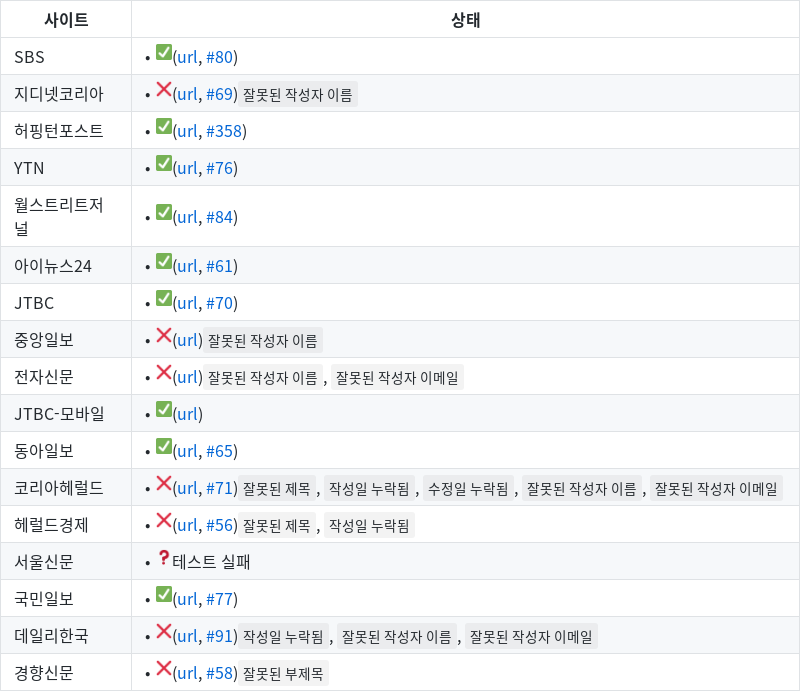
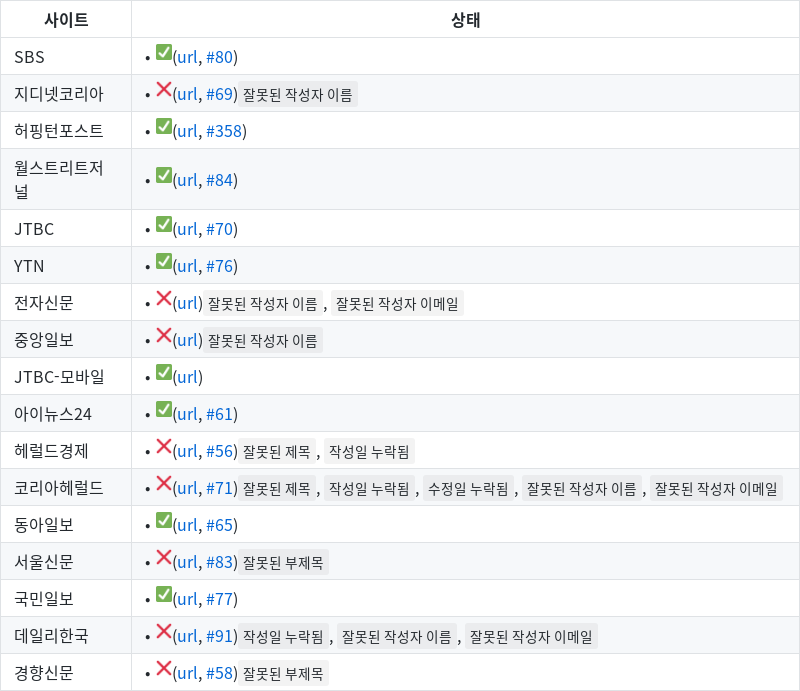
Wed Mar 11 00:15:25 UTC 2020

diff --git a/health-check.md b/health-check.md
@@ -3,17 +3,17 @@
 | SBS | • ✅([url](https://news.sbs.co.kr/news/endPage.do?news_id=N1002697236), [#80](https://github.com/disjukr/just-news/issues/#80)) |
 | 지디넷코리아 | • ❌([url](http://www.zdnet.co.kr/view/?no=20141104074223), [#69](https://github.com/disjukr/just-news/issues/#69))`잘못된 작성자 이름` |
 | 허핑턴포스트 | • ✅([url](https://www.huffingtonpost.kr/entry/story_kr_5d36a558e4b004b6adb5029c?9e4), [#358](https://github.com/disjukr/just-news/issues/#358)) |
-| YTN | • ✅([url](https://www.ytn.co.kr/_ln/0103_201411190800481989), [#76](https://github.com/disjukr/just-news/issues/#76)) |
 | 월스트리트저널 | • ✅([url](https://realtime.wsj.com/korea/2014/10/13/%EB%B0%95%EC%9B%90%EC%88%9C-%EC%84%9C%EC%9A%B8%EC%8B%9C%EC%9E%A5-%EB%AF%B8%EA%B5%AD-%EC%96%B8%EB%A1%A0%EC%97%90-%EB%8F%99%EC%84%B1%EA%B2%B0%ED%98%BC-%EC%A7%80%EC%A7%80-%EB%B0%9C%EC%96%B8/), [#84](https://github.com/disjukr/just-news/issues/#84)) |
-| 아이뉴스24 | • ✅([url](http://www.inews24.com/view/860573), [#61](https://github.com/disjukr/just-news/issues/#61)) |
 | JTBC | • ✅([url](http://news.jtbc.joins.com/article/article.aspx?news_id=NB10639468), [#70](https://github.com/disjukr/just-news/issues/#70)) |
-| 중앙일보 | • ❌([url](https://news.joins.com/article/23621286))`잘못된 작성자 이름` |
+| YTN | • ✅([url](https://www.ytn.co.kr/_ln/0103_201411190800481989), [#76](https://github.com/disjukr/just-news/issues/#76)) |
 | 전자신문 | • ❌([url](http://www.etnews.com/20191031000370?mc=ns_003_00006))`잘못된 작성자 이름`, `잘못된 작성자 이메일` |
+| 중앙일보 | • ❌([url](https://news.joins.com/article/23621286))`잘못된 작성자 이름` |
 | JTBC-모바일 | • ✅([url](http://mnews.jtbc.joins.com/News/Article.aspx?news_id=NB11866214)) |
-| 동아일보 | • ✅([url](http://news.donga.com/3/03/20141107/67723014/1), [#65](https://github.com/disjukr/just-news/issues/#65)) |
-| 코리아헤럴드 | • ❌([url](http://khnews.kheraldm.com/view.php?ud=20141111001137&md=20141111180830_BK&kr=1), [#71](https://github.com/disjukr/just-news/issues/#71))`잘못된 제목`, `작성일 누락됨`, `수정일 누락됨`, `잘못된 작성자 이름`, `잘못된 작성자 이메일` |
+| 아이뉴스24 | • ✅([url](http://www.inews24.com/view/860573), [#61](https://github.com/disjukr/just-news/issues/#61)) |
 | 헤럴드경제 | • ❌([url](http://news.heraldcorp.com/view.php?ud=20141023000202&md=20141023091209_BK), [#56](https://github.com/disjukr/just-news/issues/#56))`잘못된 제목`, `작성일 누락됨` |
-| 서울신문 | • ❓테스트 실패 |
+| 코리아헤럴드 | • ❌([url](http://khnews.kheraldm.com/view.php?ud=20141111001137&md=20141111180830_BK&kr=1), [#71](https://github.com/disjukr/just-news/issues/#71))`잘못된 제목`, `작성일 누락됨`, `수정일 누락됨`, `잘못된 작성자 이름`, `잘못된 작성자 이메일` |
+| 동아일보 | • ✅([url](http://news.donga.com/3/03/20141107/67723014/1), [#65](https://github.com/disjukr/just-news/issues/#65)) |
+| 서울신문 | • ❌([url](http://seoul.co.kr/news/newsView.php?id=20141204500025), [#83](https://github.com/disjukr/just-news/issues/#83))`잘못된 부제목` |
 | 국민일보 | • ✅([url](http://news.kmib.co.kr/article/view.asp?arcid=0008864720&code=61121111), [#77](https://github.com/disjukr/just-news/issues/#77)) |
 | 데일리한국 | • ❌([url](http://daily.hankooki.com/lpage/politics/201412/dh20141219103740137430.htm), [#91](https://github.com/disjukr/just-news/issues/#91))`작성일 누락됨`, `잘못된 작성자 이름`, `잘못된 작성자 이메일` |
 | 경향신문 | • ❌([url](http://biz.khan.co.kr/khan_art_view.html?artid=201410311921301&code=920100&med=khan), [#58](https://github.com/disjukr/just-news/issues/#58))`잘못된 부제목` |
